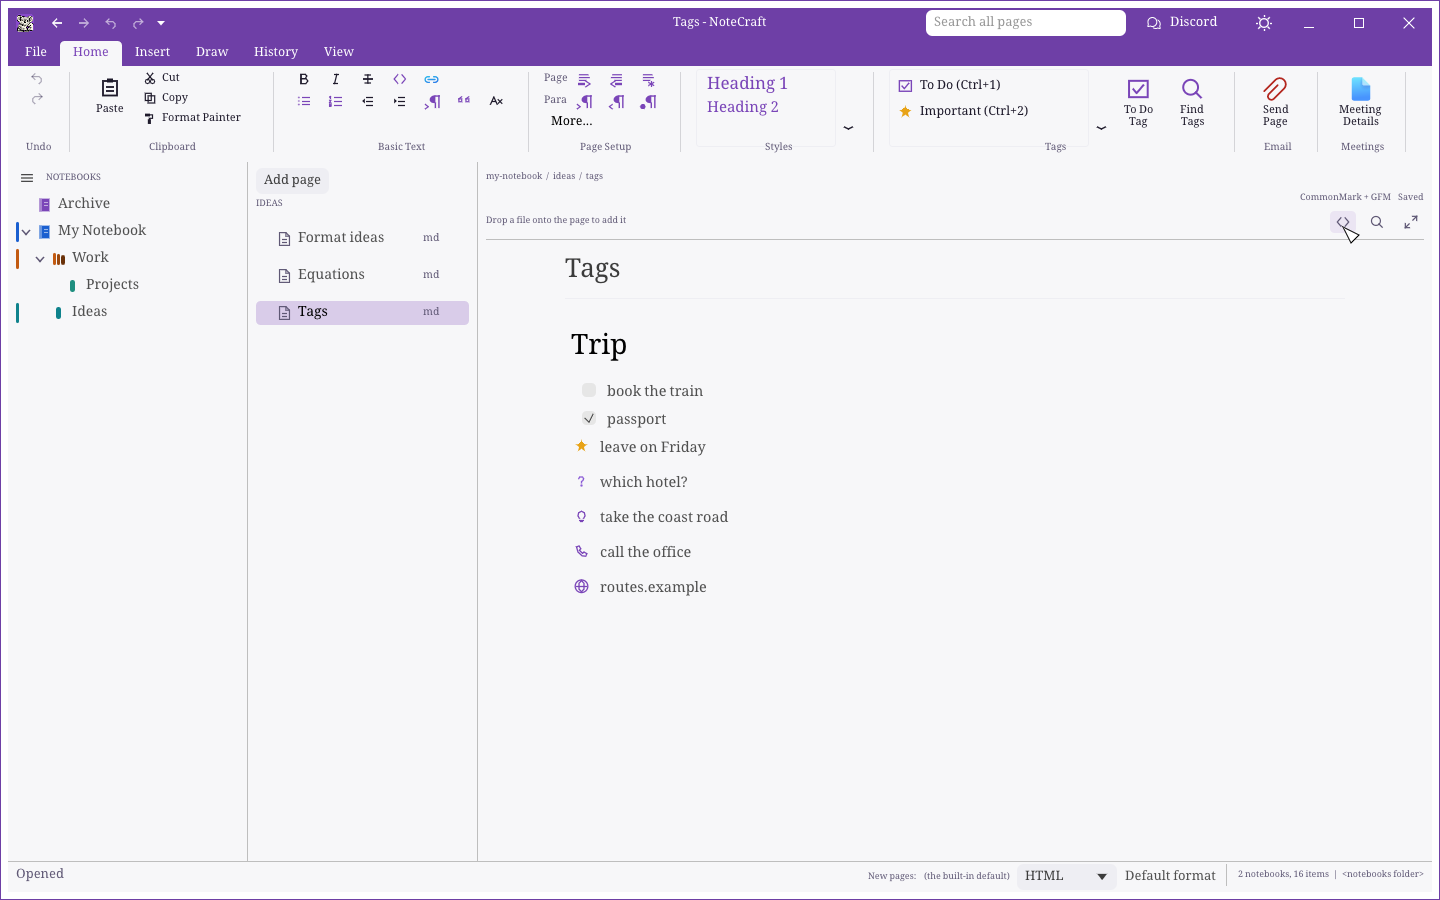
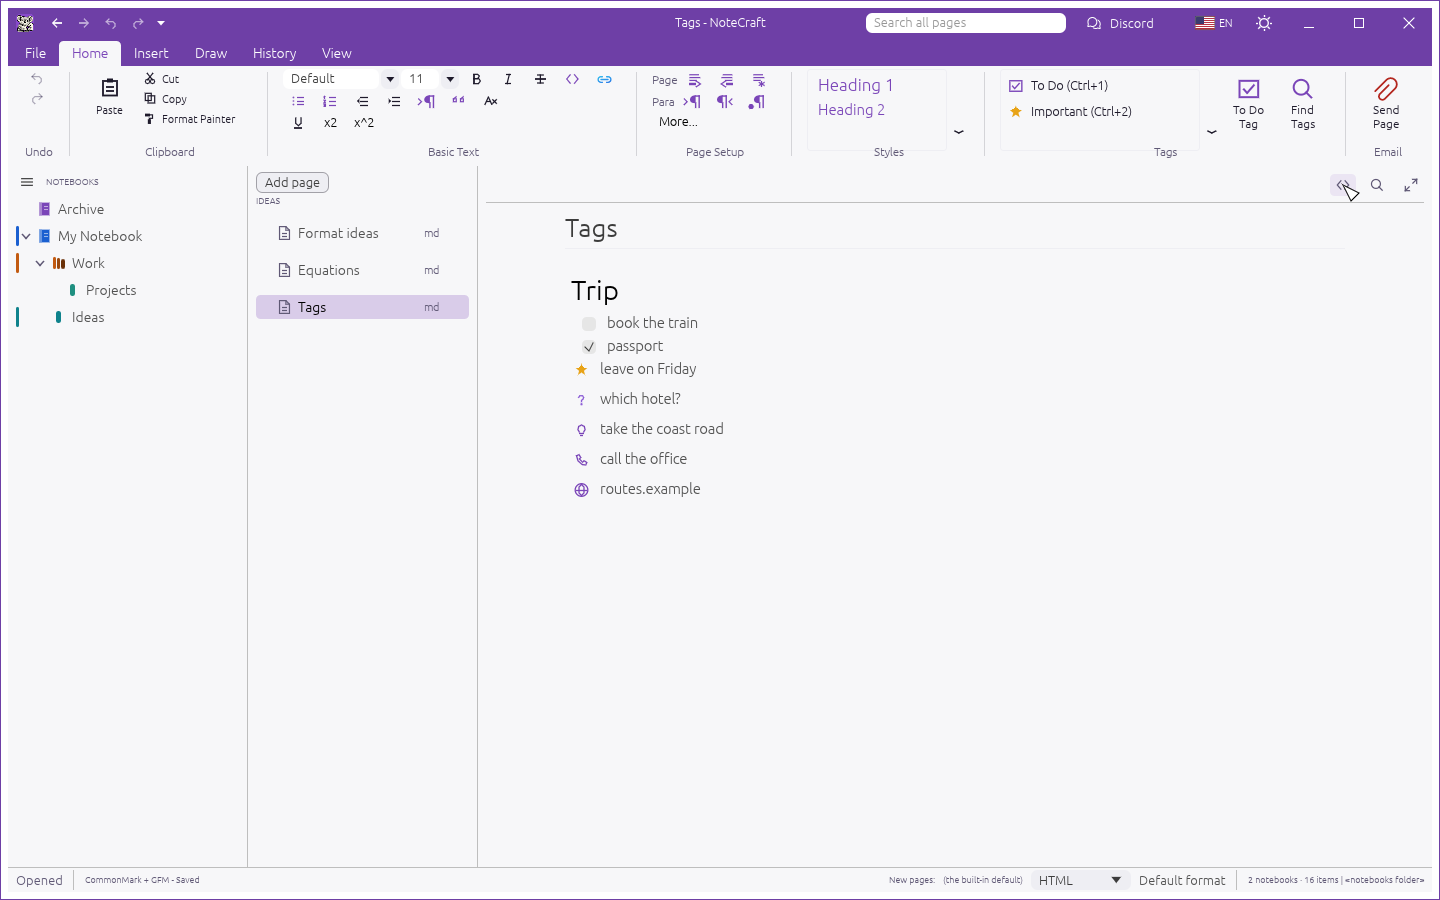
docs(ui): refresh pictures for compact page chrome
Update the format guide, source-button capture coordinates and screenshot audit.
Regenerated and reviewed at 1440x900, scale 1:
hero.png, page-source.png, html-page.png, equations.png, tags.png,
ribbon-insert.png, ribbon-home.png, dark-green.png, theme-switcher.png,
file-screen.png and diagrams.png.

diff --git a/SKILLS/nc-ua/screenshot-audit.md b/SKILLS/nc-ua/screenshot-audit.md
@@ -8,6 +8,12 @@ this file inventories User Assistance and demo assets only.
 
 Last full audit: 2026-10-25, branch `feat/header-discord-link` (regenerated after the header change, commit `8d0c15d`). Only `hero.png` and `ribbon-insert.png` were checked by eye, and hero was re-checked after the Discord link.
 
+README refresh: 2026-11-13, branch `fix/hourly-issue-138`. All eleven section A
+images were regenerated with the compact page chrome and checked by eye at
+1440x900, scale 1. Source view opens through its relocated control. Page titles,
+status details, ribbon tabs, theme menu and File screen match their captions.
+Sections B and D were not regenerated or re-audited in this change.
+
 ## A. README and release pictures (`docs/images/`)
 
 Generated by `cargo xtask screenshots`, which runs `scripts/readme-screens.jsonl` through
@@ -15,17 +21,17 @@ Generated by `cargo xtask screenshots`, which runs `scripts/readme-screens.jsonl
 
 | Picture | Shot line in `readme-screens.jsonl` | Used in | Checked by eye | Notes |
 |---|---|---|---|---|
-| `hero.png` | line 8 | README (top), ATTRIBUTION | yes, 2026-10-25 | Clean, no dialog |
-| `page-source.png` | line 13 | README, ATTRIBUTION | no | |
-| `html-page.png` | line 18 | README, ATTRIBUTION | no | |
-| `equations.png` | line 23 | README, ATTRIBUTION | no | |
-| `tags.png` | line 28 | README, ATTRIBUTION | no | |
-| `ribbon-insert.png` | line 31 | ATTRIBUTION (README does not use it) | yes, 2026-10-25 | Insert tab with colour icons; welcome dialog fixed |
-| `ribbon-home.png` | line 34 | README, ATTRIBUTION | no | |
-| `dark-green.png` | line 37 | README, ATTRIBUTION | no | |
-| `theme-switcher.png` | line 41 | ATTRIBUTION (README does not use it) | no | |
-| `file-screen.png` | line 45 | README, ATTRIBUTION | no | |
-| `diagrams.png` | line 54 | README, ATTRIBUTION | no | |
+| `hero.png` | line 8 | README (top), ATTRIBUTION | yes, 2026-11-13 | Clean, no dialog |
+| `page-source.png` | line 13 | README, ATTRIBUTION | yes, 2026-11-13 | |
+| `html-page.png` | line 18 | README, ATTRIBUTION | yes, 2026-11-13 | |
+| `equations.png` | line 23 | README, ATTRIBUTION | yes, 2026-11-13 | |
+| `tags.png` | line 28 | README, ATTRIBUTION | yes, 2026-11-13 | |
+| `ribbon-insert.png` | line 31 | ATTRIBUTION (README does not use it) | yes, 2026-11-13 | Insert tab with colour icons; welcome dialog fixed |
+| `ribbon-home.png` | line 34 | README, ATTRIBUTION | yes, 2026-11-13 | |
+| `dark-green.png` | line 37 | README, ATTRIBUTION | yes, 2026-11-13 | |
+| `theme-switcher.png` | line 41 | ATTRIBUTION (README does not use it) | yes, 2026-11-13 | |
+| `file-screen.png` | line 45 | README, ATTRIBUTION | yes, 2026-11-13 | |
+| `diagrams.png` | line 54 | README, ATTRIBUTION | yes, 2026-11-13 | |
 
 Fixed in this audit: the stale `markdown-page.png` row was removed from `ATTRIBUTION.md`. The file
 never existed in this repo and nothing used it.

diff --git a/docs/how-to/choose-the-page-format.md b/docs/how-to/choose-the-page-format.md
@@ -31,7 +31,8 @@ new pages get.
 - **Globally**: the **New pages** box in the status bar, or
   `notecraft-cli run settings.default_format.set format=cmgfm`.
 
-The current page's format is shown at the top right of the page, beside whether it is saved.
+The current page's format and save state are shown in the status bar. Hover over them to see
+the page's folder path. The source, search and full-page buttons stay above the note.
 
 ## Changing a page's format
 
